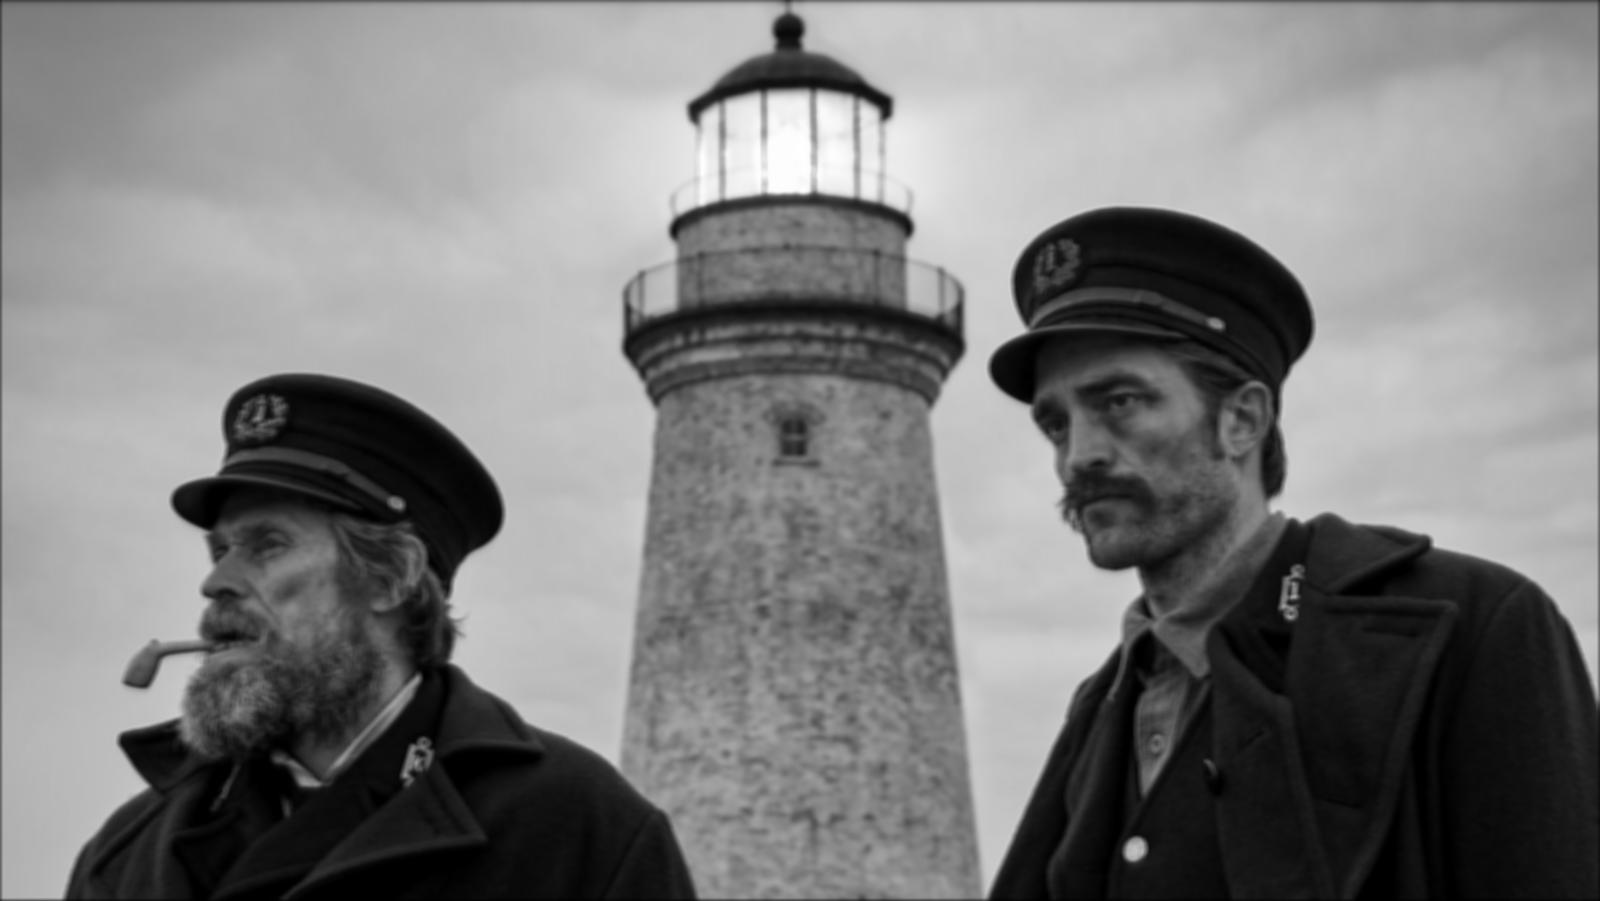
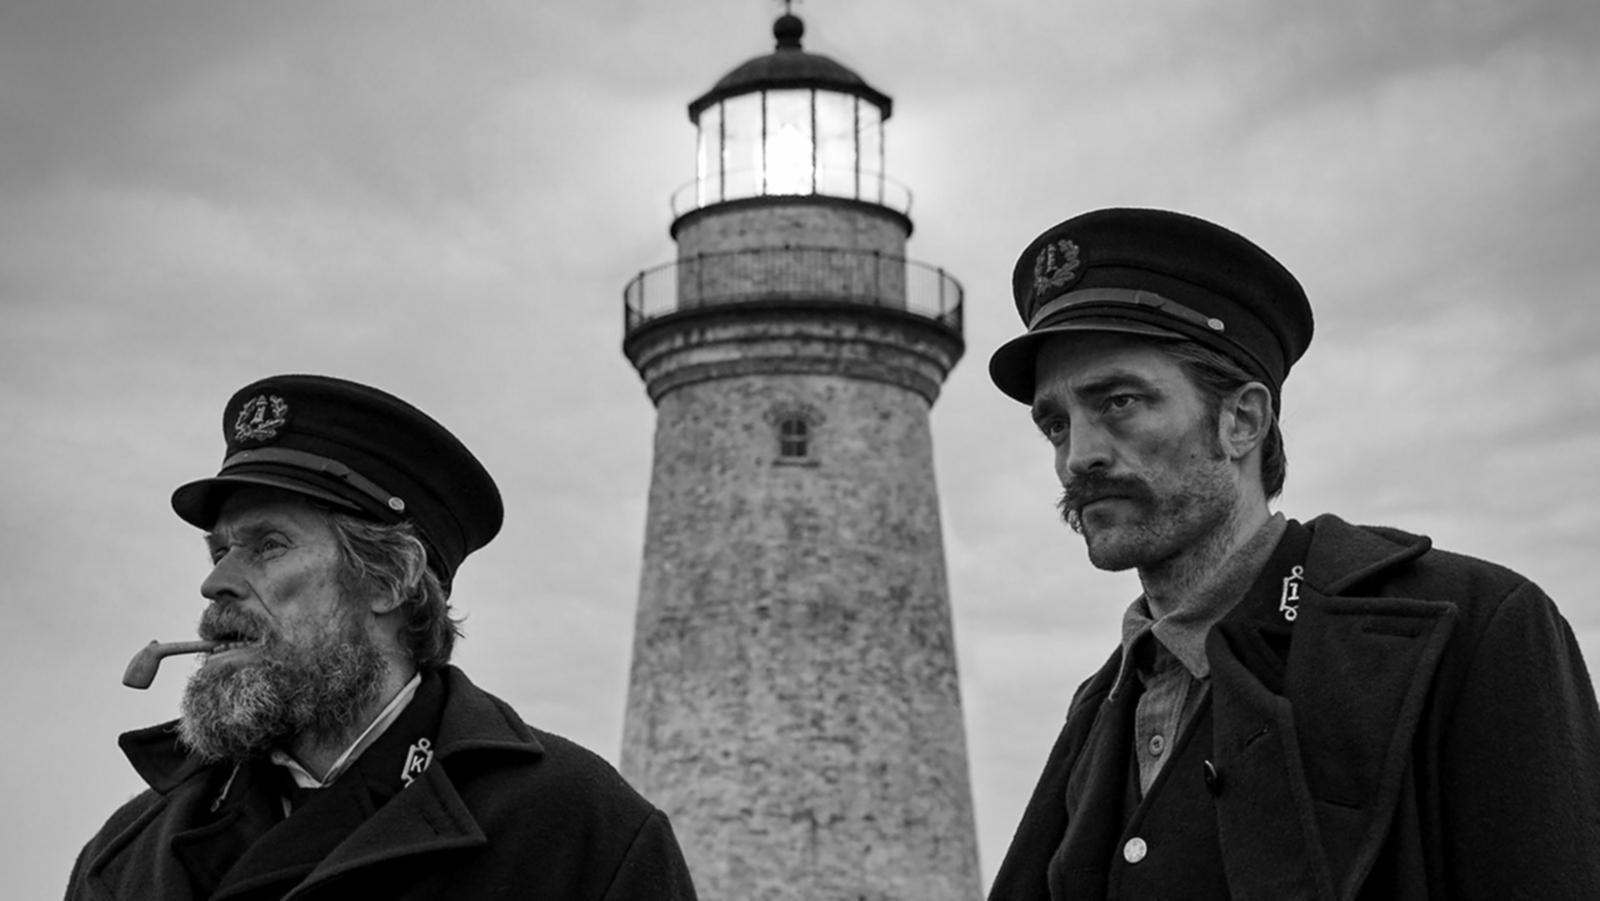
Optimized Gaussian Blur

diff --git a/python.py b/python.py
@@ -1,52 +1,56 @@
 from PIL import Image
 import guassianBlur as GB
+import numpy as np
 
 img = Image.open("Images/Thelighthouse.jpg")
-img_gray = img.convert("L")  # ensure grayscale
+img_gray = img.convert("L")
 pixels = img_gray.load()
 
 width, height = img_gray.size
 
-# Prepare output image
-output_img = Image.new("L", (width, height))
-output_pixels = output_img.load()
+
+def optimized_gaussian_blur(image_path, kernel_size=7, sigma=5.0):
+
+    img = Image.open(image_path)
+    img_gray = img.convert("L")
+    
+    img_array = np.array(img_gray, dtype=np.float32)
+    height, width = img_array.shape
+    
+    kernel = GB.blur1D(sigma, kernel_size)
+    kernel = np.array(kernel, dtype=np.float32)
+    
+    kernel = kernel / np.sum(kernel)
+    
+    k_mid = kernel_size // 2
+    
+    padded_img = np.pad(img_array, k_mid, mode='edge')
+    
+    h_blurred = np.zeros_like(img_array)
+    for i in range(kernel_size):
+        weight = kernel[i]
+        h_blurred += weight * padded_img[k_mid:k_mid+height, i:i+width]
+    
+    padded_h_blurred = np.pad(h_blurred, k_mid, mode='edge')
+    
+    v_blurred = np.zeros_like(img_array)
+    for i in range(kernel_size):
+        weight = kernel[i]
+        v_blurred += weight * padded_h_blurred[i:i+height, k_mid:k_mid+width]
+    
+    result = np.clip(v_blurred, 0, 255).astype(np.uint8)
+    output_img = Image.fromarray(result, mode='L')
+    
+    return output_img
 
 output = "D:/FDoG/EFDoG/FilteredImage/DoG"
 fileName = "Test.jpg"
 outputImage = output + "/" + fileName
 
-kernelSize = 7
-sigma = 5.0
+kernelSize = 3
+sigma = 1.0
 kernel = GB.blur1D(sigma, kernelSize)
 
 width, height = img.size
-kMid = kernelSize // 2
 
-#Blur in x direction
-for pixelY in range(height):
-    for pixelX in range(width):
-        accumulation = 0.0
-        normal = 0.0
-        kernelRange = range(-kMid, kMid + 1)
-        for dx in kernelRange:
-            nx = pixelX + dx
-            if 0 <= nx < width:
-                weight = kernel[dx + kMid]
-                accumulation += weight * pixels[nx, pixelY]
-        output_pixels[pixelX, pixelY] = int(accumulation)
-
-#Blur in y direction
-for pixelX in range(width):
-    for pixelY in range(height):
-        accumulation = 0.0
-        normal = 0.0
-        kernelRange = range(-kMid, kMid + 1)
-        for dy in kernelRange:
-            ny = pixelY + dy
-            if 0 <= ny < height:
-                weight = kernel[dy + kMid]
-                accumulation += weight * output_pixels[pixelX, ny]
-        output_pixels[pixelX, pixelY] = int(accumulation)
-        
-
-output_img.save(outputImage)
+optimized_gaussian_blur("Images/Thelighthouse.jpg", kernelSize, sigma).save(outputImage)
